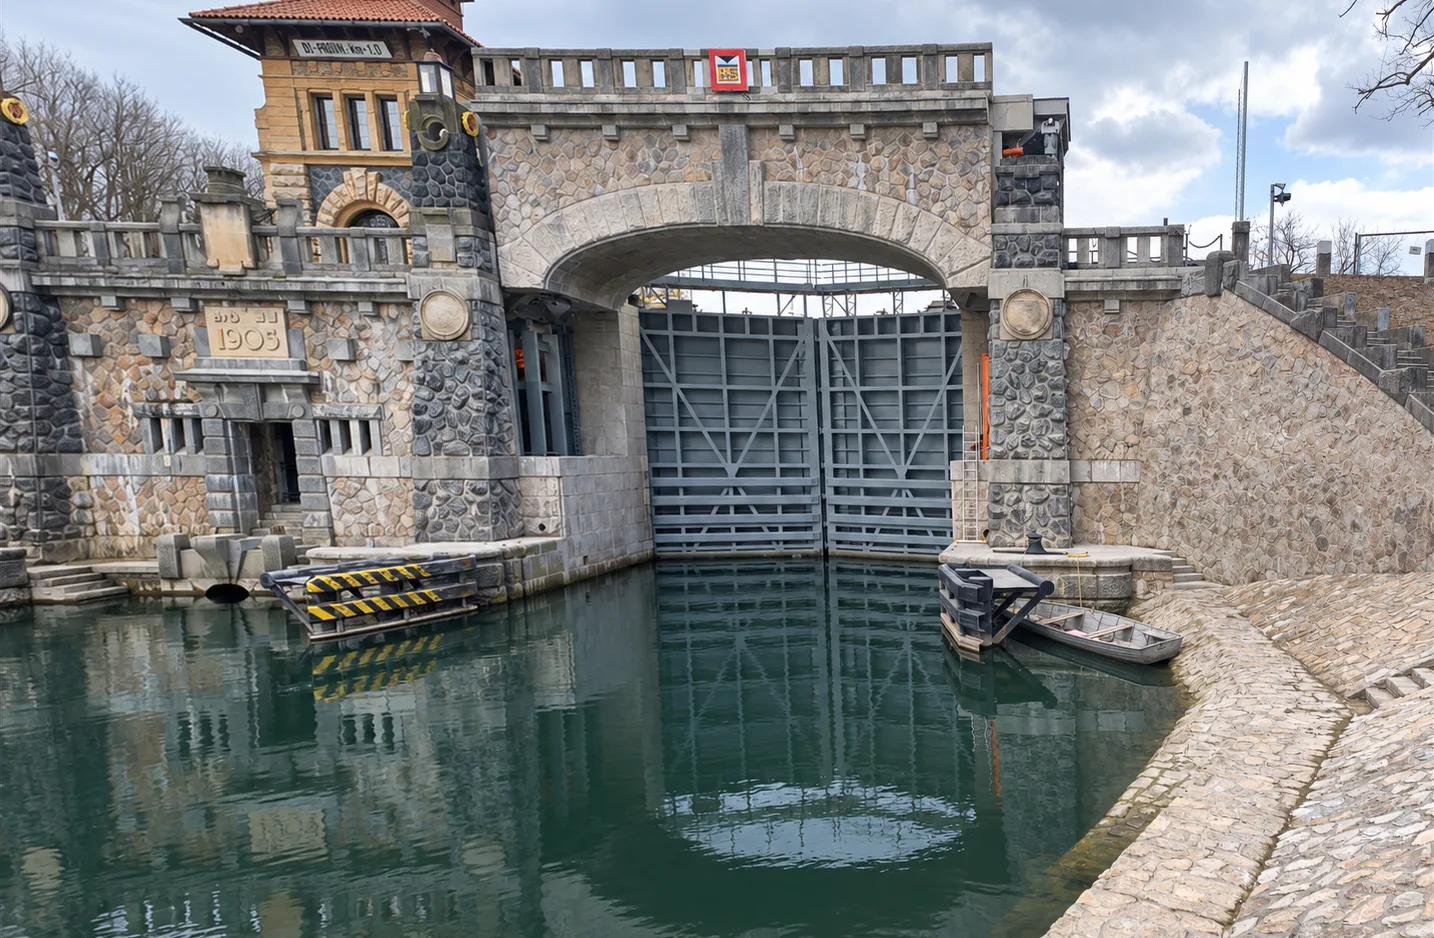
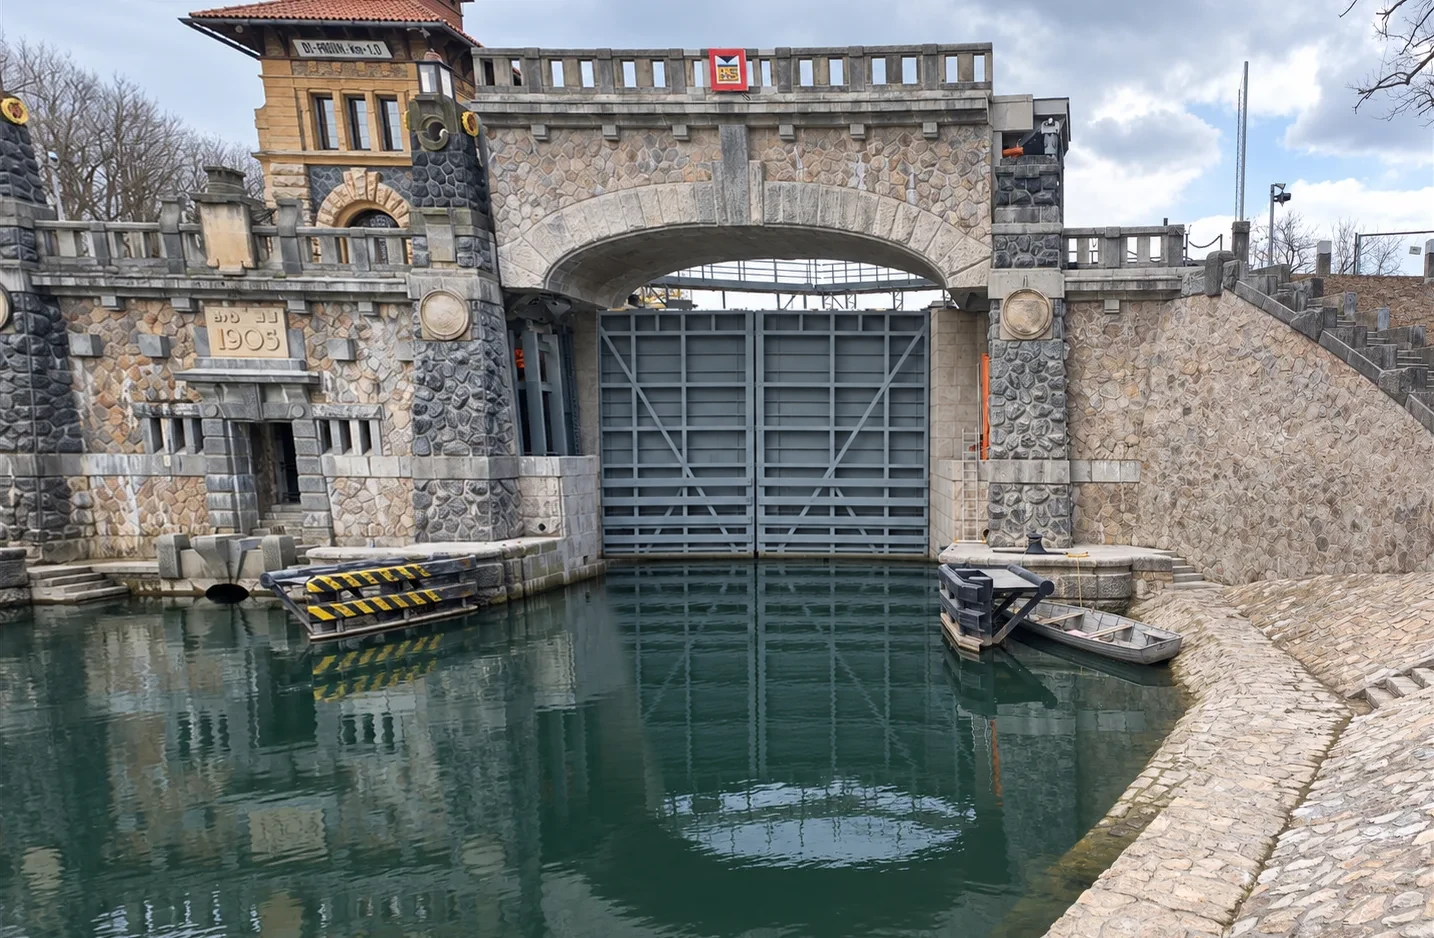
v83: vrata komory plne zavrena (retus), napis a znak na novy stred

Changed region(s): [[0.3989, 0.3092, 0.675, 0.8038]]

diff --git a/varianta2.html b/varianta2.html
@@ -301,8 +301,8 @@ footer .wrap{display:flex;justify-content:space-between;gap:16px;flex-wrap:wrap}
 /* v79: na vratech jen nastříkaný nápis DOLIUM, v hladině pod nimi plave znak jako odraz (menší než vrata) */
 .dmk{position:absolute;inset:0;pointer-events:none}
 .dmk>*{position:absolute;display:block}
-.dw{left:48.536%;top:41.791%;width:14.644%;height:4.904%}
-.dmr{left:50.628%;top:59.808%;width:10.46%;height:15.139%;opacity:0;transition:opacity 2.4s ease;-webkit-mask-image:linear-gradient(180deg,#000 50%,rgba(0,0,0,0));mask-image:linear-gradient(180deg,#000 50%,rgba(0,0,0,0))}
+.dw{left:45.886%;top:41.791%;width:14.644%;height:4.904%}
+.dmr{left:47.978%;top:59.808%;width:10.46%;height:15.139%;opacity:0;transition:opacity 2.4s ease;-webkit-mask-image:linear-gradient(180deg,#000 50%,rgba(0,0,0,0));mask-image:linear-gradient(180deg,#000 50%,rgba(0,0,0,0))}
 .dmr img{display:block;width:100%;height:100%;filter:blur(.5px);animation:dfloat 7s ease-in-out infinite}
 @keyframes dfloat{0%,100%{transform:translate(0,0) skewX(0)}30%{transform:translate(1.5%,1.2%) skewX(1.2deg)}65%{transform:translate(-1.2%,-.6%) skewX(-1deg)}}
 .hero.mat .dmr{opacity:1}
